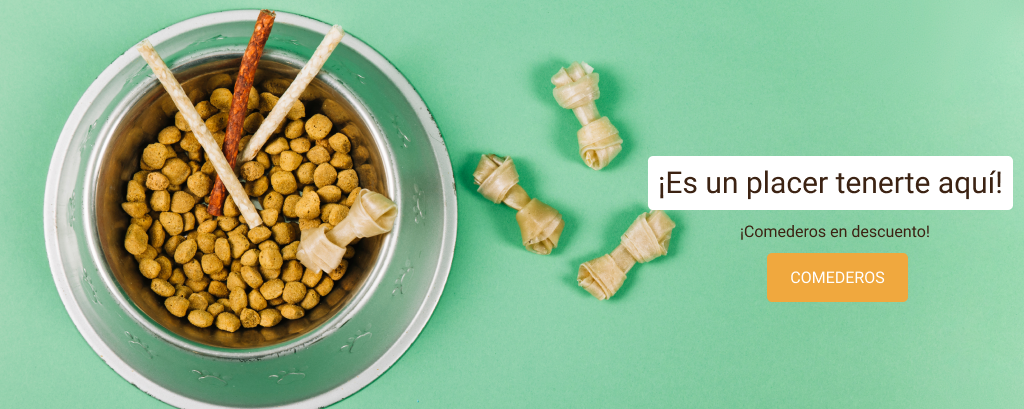
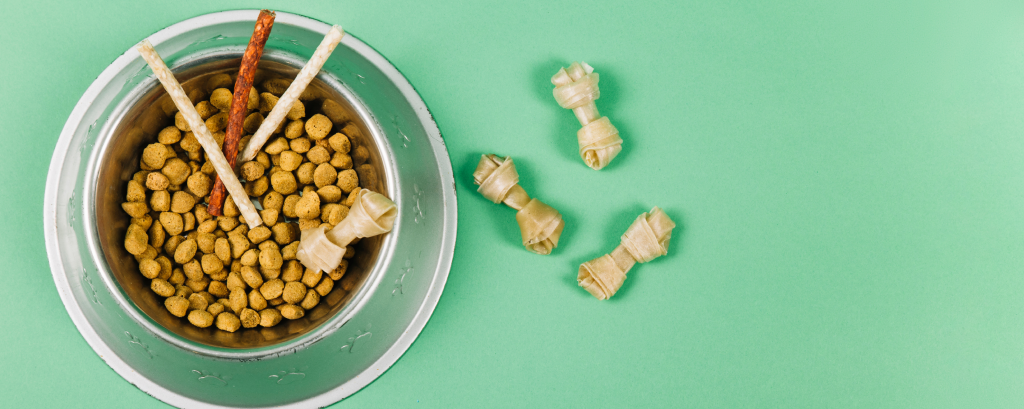
Actualización actividad petshop

Changed region(s): [[0.625, 0.3814, 1.0, 0.5281], [0.75, 0.6161, 0.9062, 0.7628], [0.7188, 0.5575, 0.9062, 0.5868]]

diff --git a/clase_6/index.html b/clase_6/index.html
@@ -4,50 +4,86 @@
     <meta charset="UTF-8">
     <meta http-equiv="X-UA-Compatible" content="IE=edge">
     <meta name="viewport" content="width=device-width, initial-scale=1.0">
+    <link rel="stylesheet" href="styles/style.css">
     <title>Front Cat Dog</title>
 </head>
 <body>
-    <header>
-        <nav style="background-color:rgb(243, 170, 34)">
-            <img src="img/Top.png" alt="" width="100%" height="100%">
-            <img src="img/Logo.png" alt="">
-            <ul type="none">
-                <li><img src="img/pawprint_blanco.png" alt=""><font color="white">Categorias</font></li>
-                <li><img src="img/pawprint_blanco.png" alt=""><font color="white">Pets</font></li>
-                <li><img src="img/pawprint_blanco.png" alt=""><font color="white">Nosotros</font></li>
-                <li><img src="img/pawprint_blanco.png" alt=""><font color="white">Contacto</font></li>
-            </ul>
-        </nav>
-        <img src="img/bowl-and-pet-daities-on-green-background 1.png" alt="" width="100%" height="100%">
+    <header class="barras_nav">
+        <aside class="ofertas_bar"><span>Grandes ofertas en comederos</span></aside>
+        <div class="wrap_header">
+            <a href="#" class="logo"><img src="img/Logo.png" alt=""></a>
+            <nav class="nav_links">
+                <ul>
+                    <li><img src="img/pawprint_blanco.png" alt="">Categorias</li>
+                    <li><img src="img/pawprint_blanco.png" alt="">Pets</li>
+                    <li><img src="img/pawprint_blanco.png" alt="">Nosotros</li>
+                    <li><img src="img/pawprint_blanco.png" alt="">Contacto</li>
+                </ul>
+            </nav>
+        </div>
+        <img src="img/bowl-and-pet-daities-on-green-background 1.png" alt="" class="banner">
     </header>
     <main>
-        <section align="center">
-            <img src="img/pawprint 1.png" alt="" align="center">
+        <br>
+        <section class="title">
+            <img src="img/pawprint 1.png" alt="" >
             <h1>Productos Destacados</h1>
-            <a href="">Comederos -</a><a href=""> Accesorios -</a><a href=""> Comida</a>
             <br>
-            <br>
-            <article align="left"><img src="img/churrasquito.png" alt=""><p>Juguete Churrasquito</p><span>$150</span></article>
-            <article><img src="img/comedero.png" alt=""><p>Comedero para perro</p><span>$250</span></article>
-            <article align=><img src="img/Huesito.png" alt=""><p>Juguete Huesito</p><span>$650</span></article>
+            <a href="#">Comederos - </a> <a href="#"> Accesorios - </a> <a href="#"> Comida</a>
+            <section class="conteiner">
+            <article class="productos"><img src="img/churrasquito.png" alt=""><p>Juguete Churrasquito</p><span>$150</span></article>
+            <article class="productos"><img src="img/comedero.png" alt=""><p>Comedero para perro</p><span>$250</span></article>
+            <article class="productos"><img src="img/Huesito.png" alt=""><p>Juguete Huesito</p><span>$650</span></article>
+            </section>
         </section>
         <br>
-        <br>
-        <section align="center">
-            <img src="img/Formulario.png" alt="">
+        <section id="contacto">
+            <h2>Contáctanos</h2>
+            <br>
+            <form action="">
+                <fieldset>
+                    <div  class="boxes">
+                        <input type="text" placeholder="Nombre y Apellido" name="nombre" id="nombre" required>
+                    </div>
+                    <div  class="boxes">
+                        <input type="text" placeholder="Correo Electrónico" name="email" id="email" required>
+                    </div>
+                    <div  class="boxes">
+                        <input type="text" placeholder="Teléfono" name="telefono" id="telefono" required>
+                    </div>
+                </fieldset>
+                <br>
+                
+            </form>  
         </section>
+        <section class="boton">
+            <button type="reset" class="reset">Resetear</button>   <button type="submit" class="send">Enviar</button> 
+        </section>
+        <br>
+    </main>    
     <footer>
-        <section style="background-color:rgb(39, 0, 0)">
-            <img src="img/Suscribcion.png" alt="" width="100%" height="100%">
-            <ul type="none" >
-                <li><img src="img/IconoLocalidad.png" alt=""><font color="white"><h2>Localidad</h2><h4>Calle-provincia</h4></font></li>
-                <li><img src="img/IconoTelefono.png" alt=""><font color="white"><h2>Teléfono</h2><h4>Número de telefono</h4></font></li>
-                <li><img src="img/IconoMensajes.png" alt=""><font color="white"><h2>Correo Electrónico</h2><h4>Dirección de Correo</h4></font></li>
-            </ul>
-            <img src="img/Logo.png" alt="" align="right" style="background-color:rgb(39, 0, 0)">
-            <img src="img/Derechos.png" alt="" width="100%" height="100%">
+        <div id="suscrib">
+            <div>
+                <img src="img/suscrib_icon.png" alt=""> <span> Suscríbete para más novedades</span>
+            </div>
+            <div>
+                <input type="text" placeholder="Ingresa tu correo electrónico">
+                <button class="sus" type="submit">Suscribirme</button>
+            </div>
+        </div>
+        <br>
+        <section id="foot">
+            <div class="info">
+                <img src="img/IconoLocalidad.png" alt=""><span>Localidad</span><p>Calle-provincia</p>
+                <img src="img/IconoTelefono.png" alt=""><span>Teléfono</span><p>Número de telefono</p>
+                <img src="img/IconoMensajes.png" alt=""><span>Correo Electrónico</span><p>Dirección de Correo</p>
+            </div>
+            <div class="logo_footer">
+                <img src="img/Logo_footer.png" alt="">
+            </div>
         </section>
+        <br>
+        <aside class="derechos"><p>Todos los derechos reservados Front End</p> </aside>
     </footer>
-    </main>
 </body>
 </html>

diff --git a/clase_6/styles/style.css b/clase_6/styles/style.css
@@ -1,0 +1,225 @@
+@import url(https://fonts.googleapis.com/css2?family=Roboto:ital,wght@0,100;0,300;0,400;0,500;0,700;1,100;1,300;1,400;1,500;1,700&display=swap);
+
+*{
+    box-sizing: border-box;
+    margin: 0;
+    padding: 0;
+}
+
+body{
+    font-family: 'Roboto', sans-serif;
+}
+
+h1{
+    font-weight: 700;
+    font-size: 40px;
+}
+
+h2{
+    font-weight: 700;
+    font-size: 25px;
+}
+
+a{
+    font-weight: 400;
+    font-size: 15px;
+}
+
+
+/*Header*/
+aside{
+    background: #222222;
+    font-weight: 400;
+    font-size: 10px;
+    color: #fff;
+    padding: 4px;
+}
+
+aside span{
+    margin-left: 150px;
+}
+
+.wrap_header{
+    display: flex;
+    justify-content: flex-end;
+    align-items: center;
+    background-color: #f0a83e;
+    height: 10px;
+    padding: 20px 10%;
+}
+
+.logo{
+    margin-right: auto;
+}
+
+.nav_links{
+    list-style: none;
+    color: #fff;
+}
+
+.nav_links li{
+    display: inline-block;
+    padding: 0px 20px;
+}
+
+/*Banner*/
+.banner{
+    height: 100%;
+    width: 100%;
+    display: flex;
+    flex-flow: row;
+}
+
+
+/*Main*/
+
+.title{
+    display: ;
+    text-align: center;
+    text-decoration: none;
+}
+
+.conteiner{
+    display: flex;
+    flex-flow: row nowrap;
+    justify-content: space-evenly;
+    padding: 95px;
+    margin: 20px;
+}
+
+.productos{
+    background-color: #FBFAF6;
+    height: 312px;
+    width: 265px;
+}
+
+.conteiner p{
+    font-weight: 500;
+    font-size: 15px;
+    color: #3C2313;
+    
+}
+
+.conteiner span{
+    font-weight: 500;
+    font-size: 15px;
+    color: #F0A83E;
+    
+}
+
+/*Contacto*/
+
+#contacto{
+    display: flex;
+    flex-flow: column nowrap;
+    justify-content: space-evenly;
+    align-items: center;
+}
+
+fieldset{
+    border: 0;
+}
+
+input{
+    background-color: #3C2313;
+    border-radius: 15px;
+    width: 340px;
+    height: 40px;
+    margin: 3px;
+    color: #fff;
+}
+
+.boton{
+    display: flex;
+    flex-flow: row nowrap;
+    justify-content: center;
+    align-items: center;
+}
+
+button{
+    border-radius: 15px;
+    width: 110px;
+    height: 34px;
+    margin: 5px;
+    font-weight: 400;
+    font-size: 16px;
+}
+
+.reset{
+    background: #8A8787;
+    color: #fff;
+}
+
+.send{
+    background-color: #F0A83E;
+    ;
+    color: #fff;
+}
+
+/*Footer*/
+
+footer{
+    background-color: #3C2313;
+}
+
+#suscrib{
+    display: flex;
+    flex-flow: row nowrap;
+    justify-content: space-between;
+    background-color: #f0a83e;
+    height: 60px;
+    align-items: center;
+}
+
+#suscrib span{
+    color: #fff;
+    font-weight: 700;
+    font-size: 20px;
+}
+
+#suscrib input{
+    background-color: #fff;
+    color: #000;
+}
+
+.sus{
+    width: 70px;
+    height: 34px;
+    background-color: #3C2313;
+    color: #fff;
+    font-weight: 700;
+    font-size: 9px;
+}
+
+#foot{
+    display: flex;
+    flex-flow: row nowrap;
+    justify-content: space-around;
+    align-items: center;
+}
+
+.info span{
+    font-weight: 700;
+    font-size: 20px;
+    color: #fff;
+}
+
+.info p{
+    font-weight: 700;
+    font-size: 10px;
+    color: #8A8787;
+}
+
+.logo_footer{
+    padding-left: 650px;
+}
+
+.derechos p{
+    text-align: center;
+}
+
+
+
+
+
+
